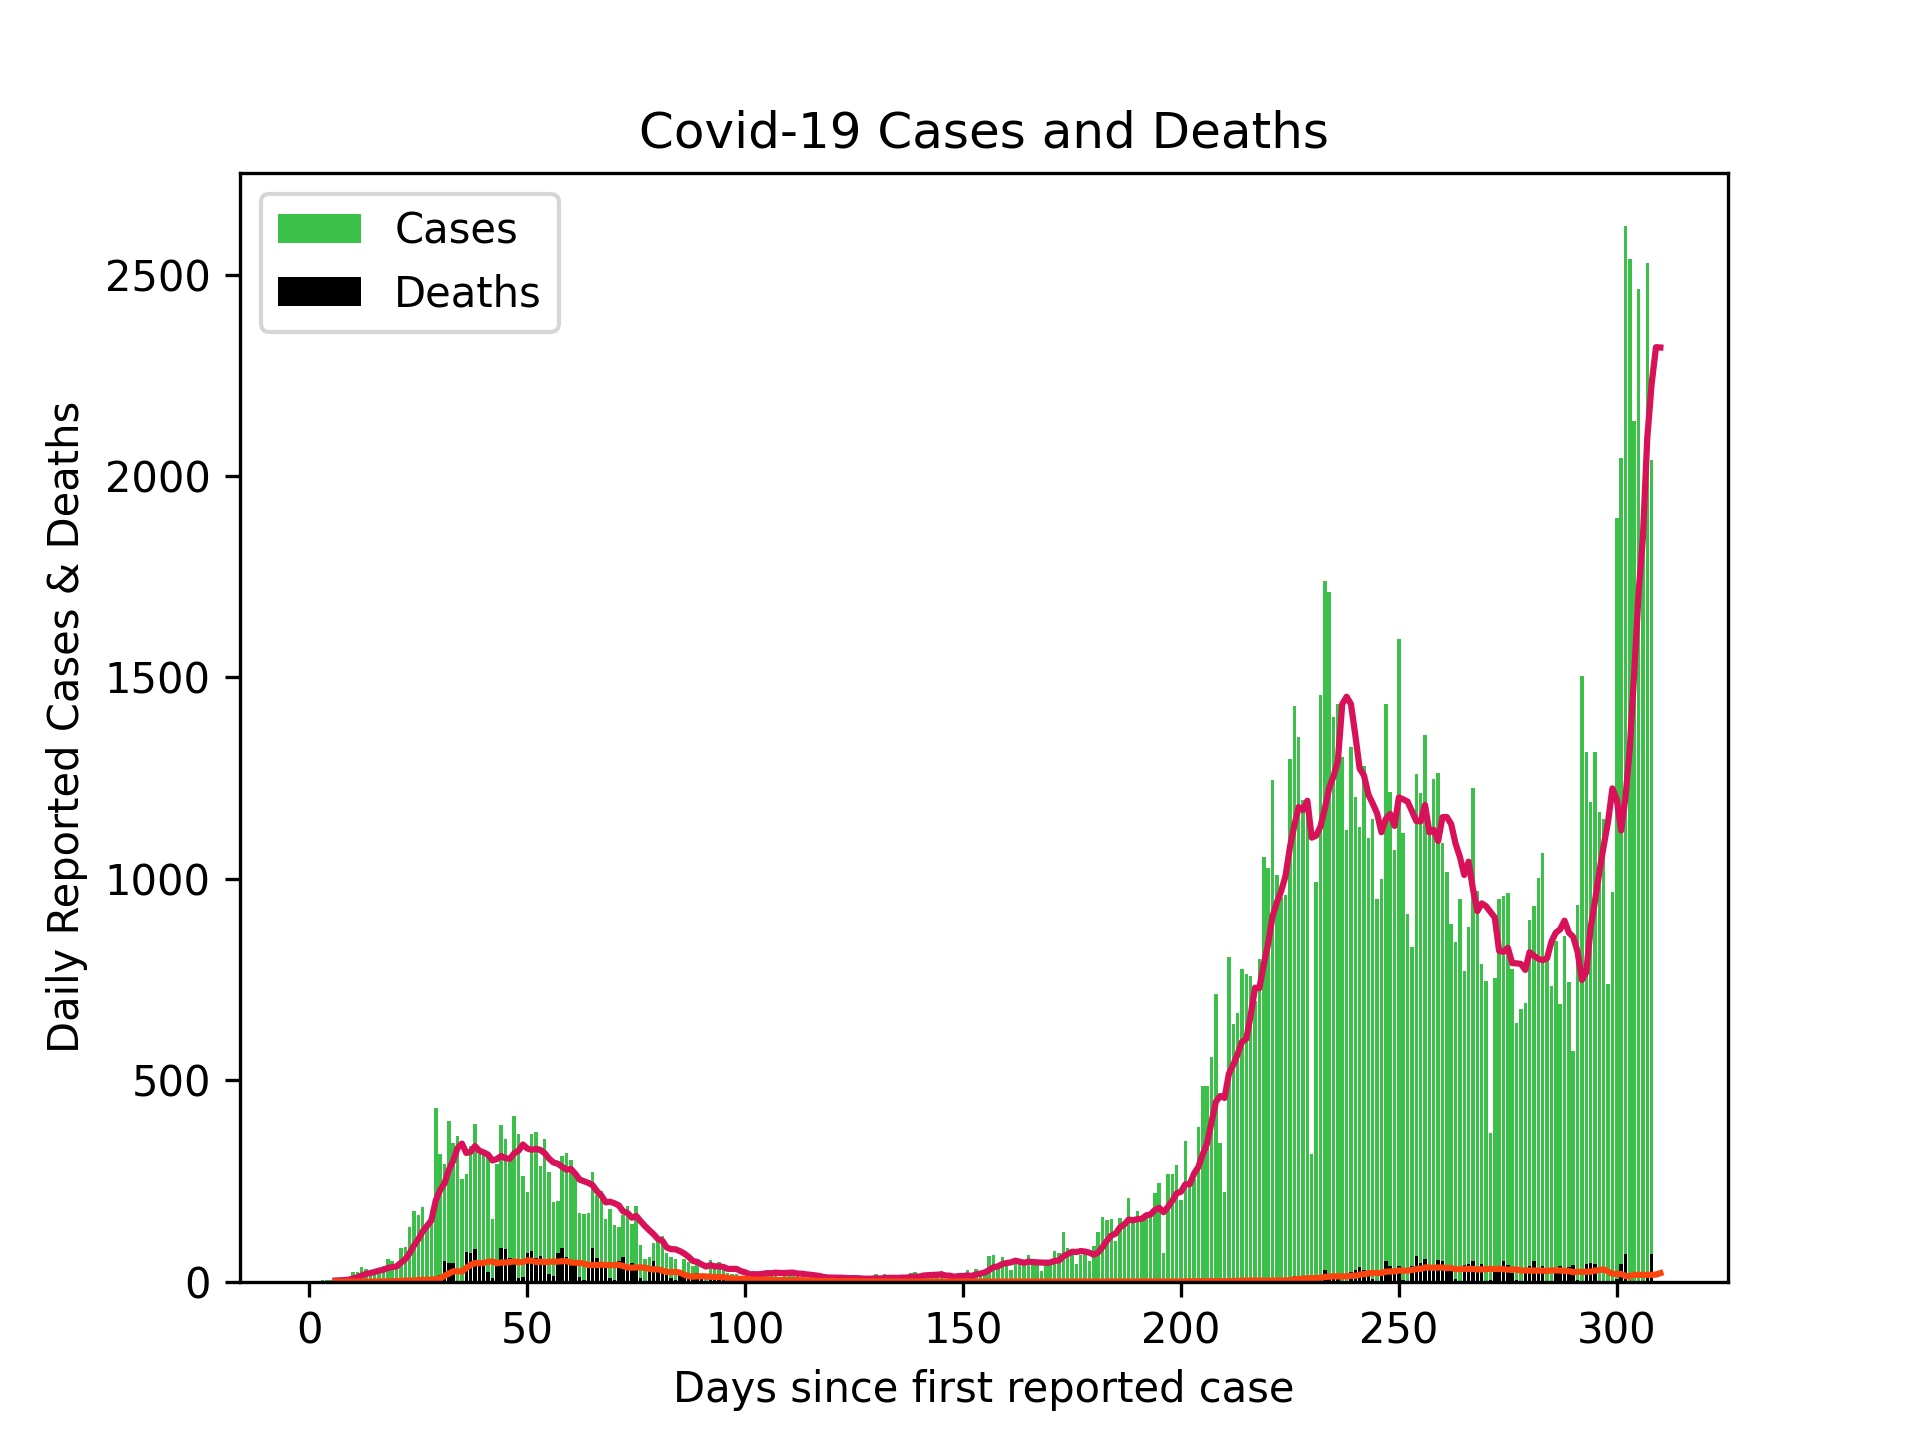
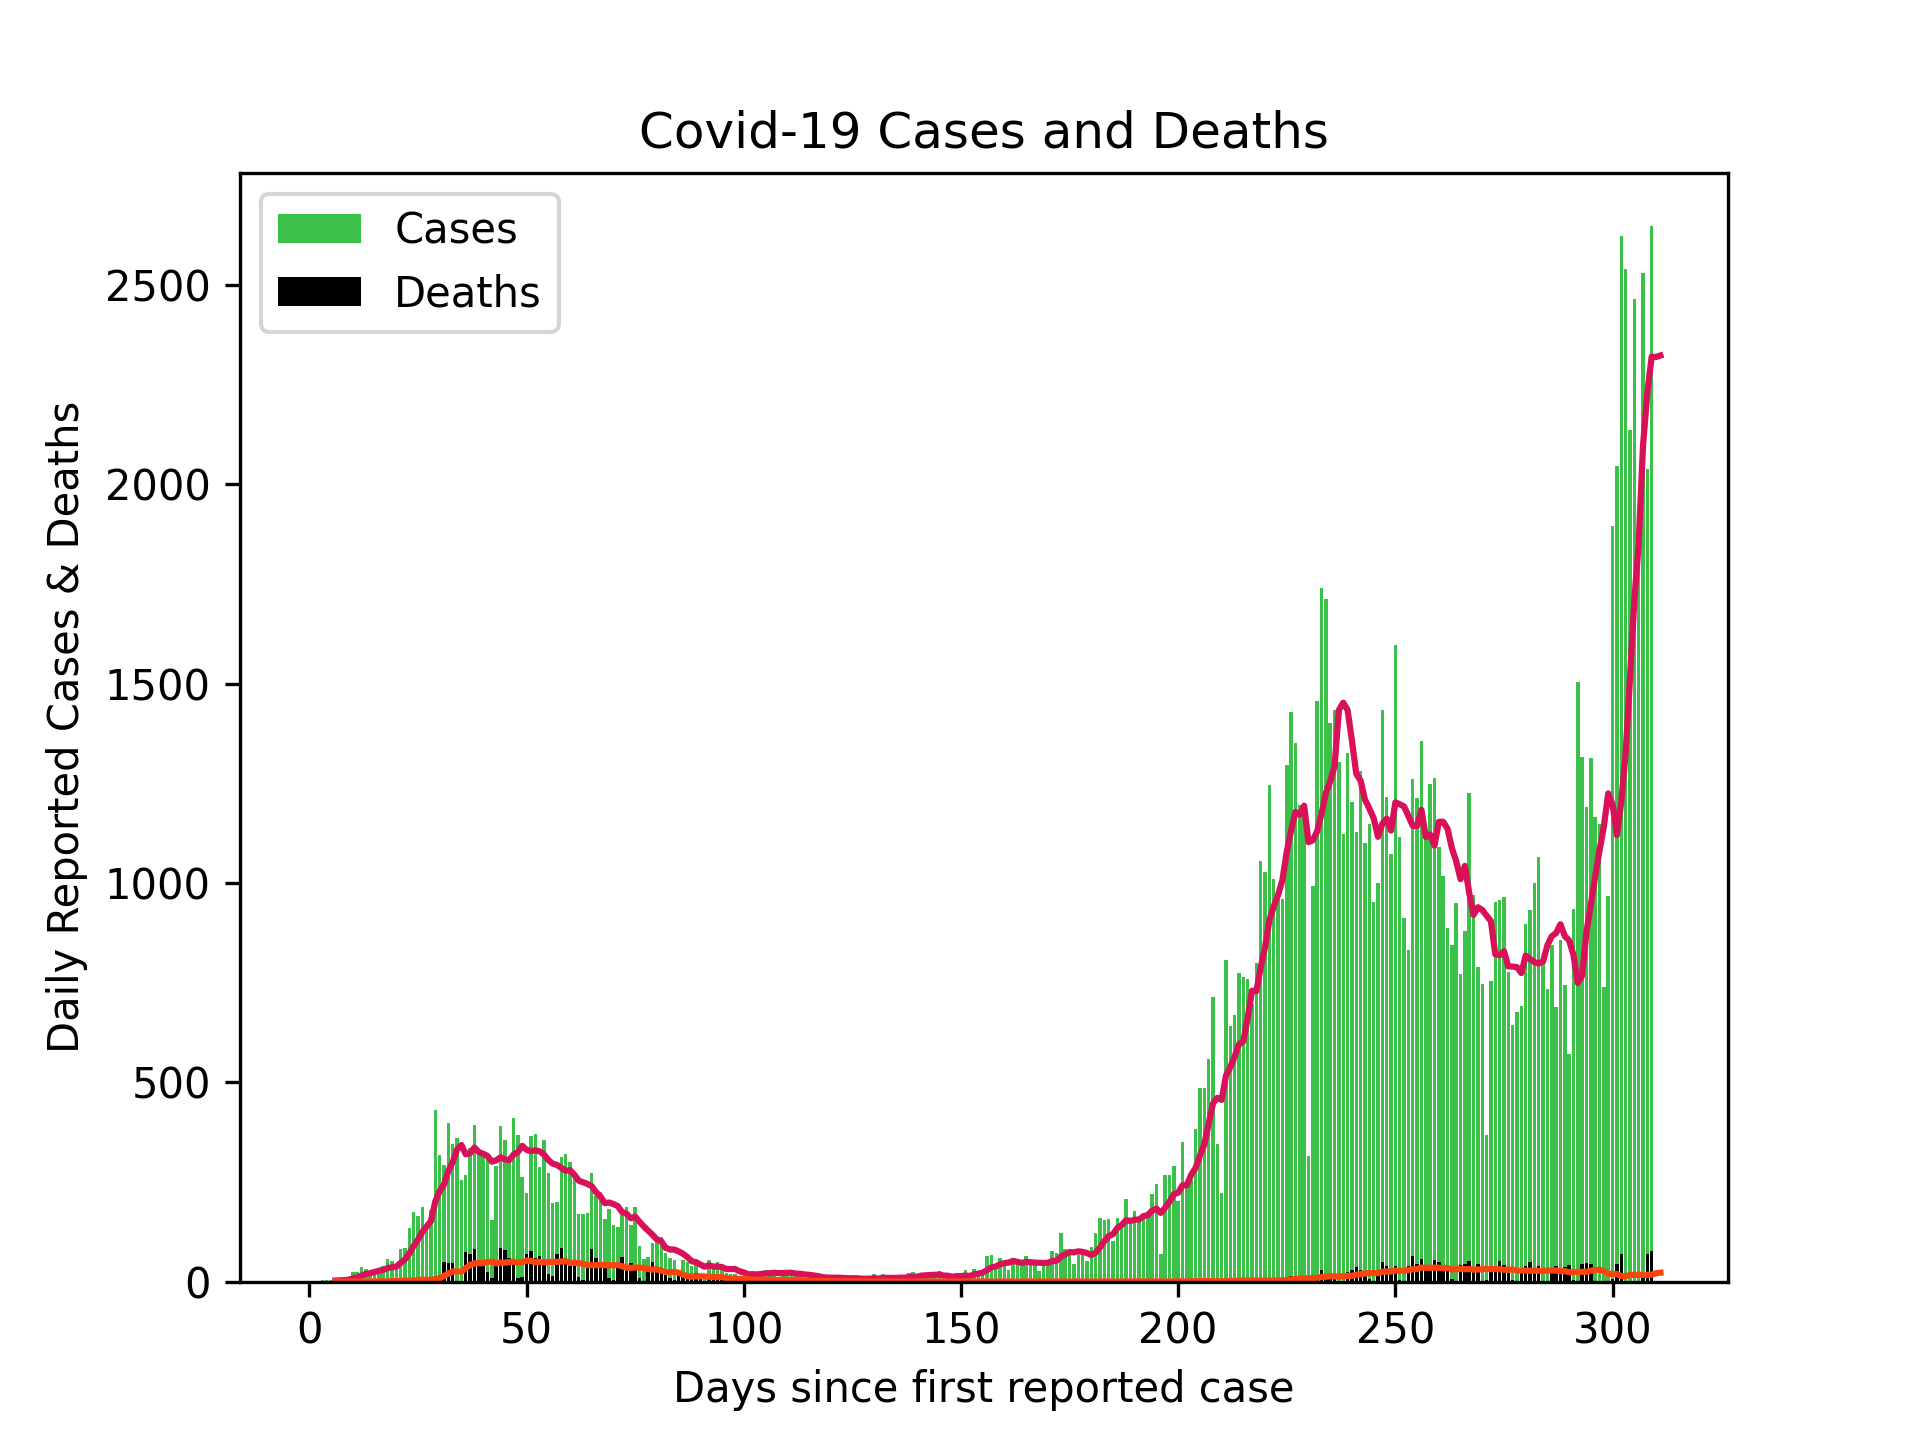
Updated Scottish cases 07/01/21

diff --git a/README.md b/README.md
@@ -1,4 +1,4 @@
-# Scottish Cases 06/01/21
+# Scottish Cases 07/01/21
 
 ![alt](scottish_cases.png)
 
